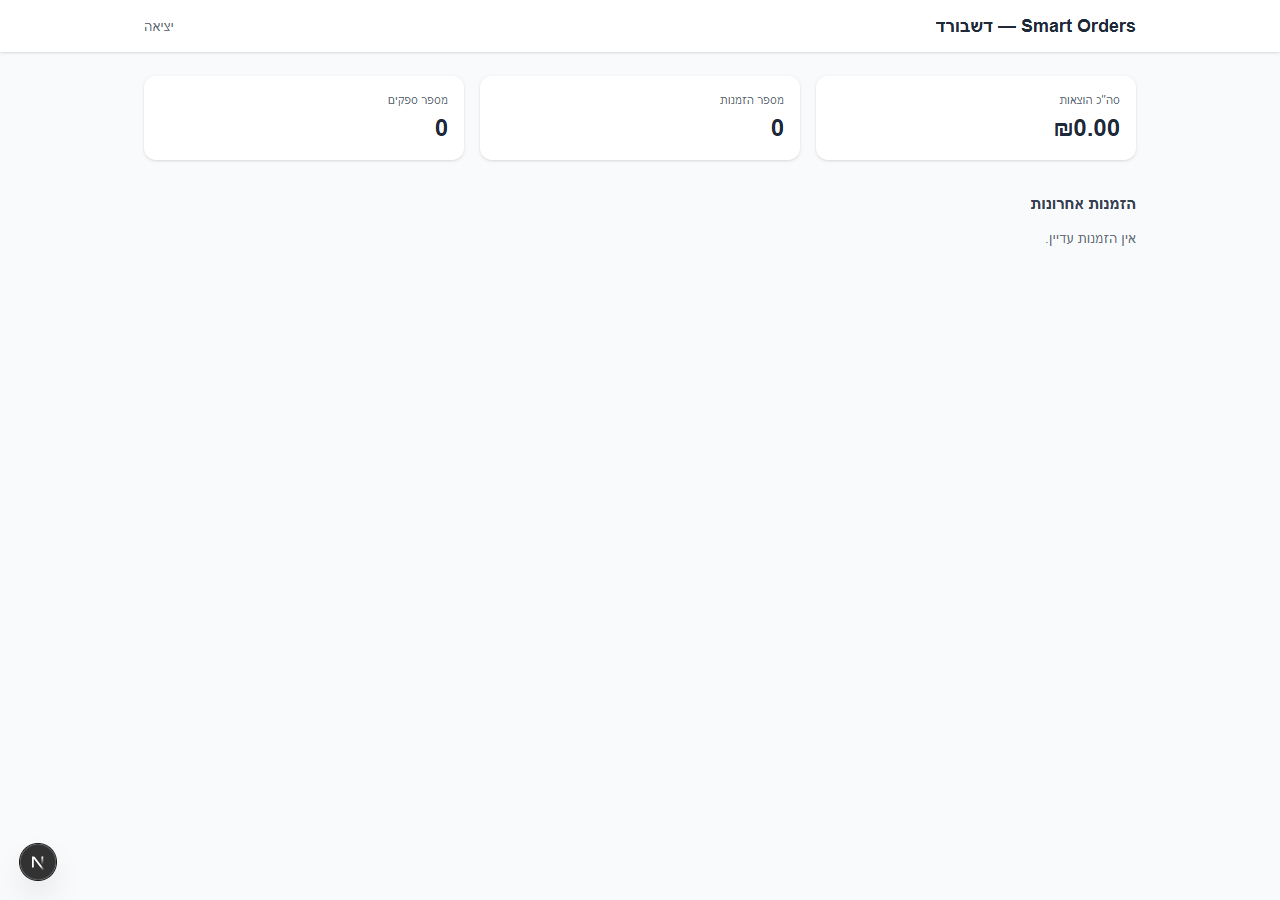
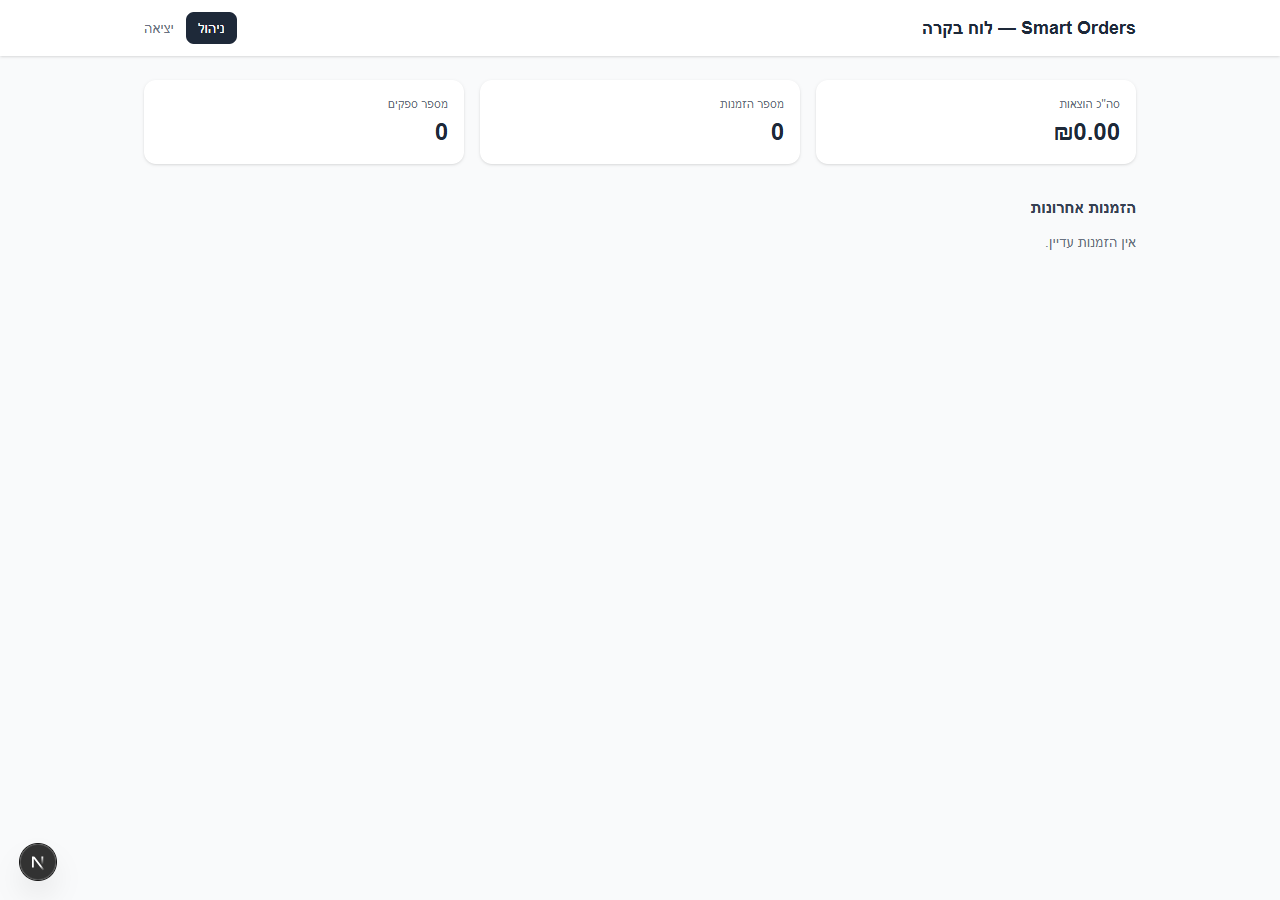
fix frontend

diff --git a/frontend/app/dashboard/orders/[id]/page.tsx b/frontend/app/dashboard/orders/[id]/page.tsx
@@ -1,0 +1,158 @@
+"use client";
+
+import { useEffect, useState } from "react";
+import { useRouter, useParams } from "next/navigation";
+import { fetchOrderDetail, OrderDetail } from "../../../lib/api";
+
+const STATUS_LABELS: Record<string, { label: string; color: string }> = {
+  pending:   { label: "ממתין",  color: "bg-yellow-100 text-yellow-800" },
+  confirmed: { label: "אושר",   color: "bg-blue-100 text-blue-800" },
+  delivered: { label: "נמסר",   color: "bg-green-100 text-green-800" },
+  cancelled: { label: "בוטל",   color: "bg-red-100 text-red-800" },
+  PENDING:   { label: "ממתין",  color: "bg-yellow-100 text-yellow-800" },
+  CONFIRMED: { label: "אושר",   color: "bg-blue-100 text-blue-800" },
+  DELIVERED: { label: "נמסר",   color: "bg-green-100 text-green-800" },
+  CANCELLED: { label: "בוטל",   color: "bg-red-100 text-red-800" },
+};
+
+function formatDate(iso: string) {
+  return new Date(iso).toLocaleDateString("he-IL", {
+    day: "numeric",
+    month: "long",
+    year: "numeric",
+    hour: "2-digit",
+    minute: "2-digit",
+  });
+}
+
+function formatCurrency(n: string | number) {
+  return `₪${Number(n).toLocaleString("he-IL", {
+    minimumFractionDigits: 2,
+    maximumFractionDigits: 2,
+  })}`;
+}
+
+function groupBySupplier(order: OrderDetail) {
+  const groups: Record<string, { name: string; items: OrderDetail["products"] }> = {};
+  for (const item of order.products) {
+    const key = String(item.supplier_id);
+    if (!groups[key]) groups[key] = { name: item.supplier_name, items: [] };
+    groups[key].items.push(item);
+  }
+  return Object.values(groups);
+}
+
+export default function OrderDetailPage() {
+  const router = useRouter();
+  const params = useParams();
+  const id = Number(params.id);
+
+  const [order, setOrder] = useState<OrderDetail | null>(null);
+  const [error, setError] = useState("");
+
+  useEffect(() => {
+    const token = localStorage.getItem("token");
+    if (!token) { router.push("/login"); return; }
+    fetchOrderDetail(id)
+      .then(setOrder)
+      .catch(() => setError("שגיאה בטעינת ההזמנה"));
+  }, [id, router]);
+
+  if (error) {
+    return (
+      <main className="min-h-screen flex items-center justify-center" dir="rtl">
+        <p className="text-red-600">{error}</p>
+      </main>
+    );
+  }
+
+  if (!order) {
+    return (
+      <main className="min-h-screen flex items-center justify-center" dir="rtl">
+        <p className="text-gray-500">טוען...</p>
+      </main>
+    );
+  }
+
+  const s = STATUS_LABELS[order.status] ?? { label: order.status, color: "bg-gray-100 text-gray-700" };
+  const groups = groupBySupplier(order);
+
+  return (
+    <main className="min-h-screen bg-gray-50" dir="rtl">
+      <header className="bg-white shadow-sm sticky top-0 z-10">
+        <div className="max-w-3xl mx-auto px-4 py-3 flex items-center gap-3">
+          <button
+            onClick={() => router.push("/dashboard")}
+            className="text-sm text-gray-500 hover:text-gray-800 transition"
+          >
+            ← חזרה
+          </button>
+          <h1 className="text-lg font-bold text-gray-800">הזמנה #{order.id}</h1>
+        </div>
+      </header>
+
+      <div className="max-w-3xl mx-auto px-4 py-6 space-y-6">
+
+        {/* Summary card */}
+        <div className="bg-white rounded-xl shadow-sm p-5 flex flex-wrap gap-6">
+          <div>
+            <p className="text-xs text-gray-500 mb-1">תאריך</p>
+            <p className="text-sm font-medium text-gray-800">{formatDate(order.created_at)}</p>
+          </div>
+          <div>
+            <p className="text-xs text-gray-500 mb-1">סטטוס</p>
+            <span className={`inline-block px-2 py-0.5 rounded-full text-xs font-medium ${s.color}`}>
+              {s.label}
+            </span>
+          </div>
+          <div>
+            <p className="text-xs text-gray-500 mb-1">ספקים</p>
+            <p className="text-sm font-medium text-gray-800">{groups.length}</p>
+          </div>
+          <div className="mr-auto">
+            <p className="text-xs text-gray-500 mb-1">סה"כ להזמנה</p>
+            <p className="text-2xl font-bold text-gray-900">{formatCurrency(order.total_price)}</p>
+          </div>
+        </div>
+
+        {/* Per-supplier breakdown */}
+        {groups.map((group) => {
+          const groupTotal = group.items.reduce(
+            (sum, item) => sum + Number(item.subtotal),
+            0
+          );
+          return (
+            <section key={group.name}>
+              <div className="flex items-center justify-between mb-2">
+                <h2 className="text-base font-semibold text-gray-700">{group.name}</h2>
+                <span className="text-sm font-semibold text-gray-900">{formatCurrency(groupTotal)}</span>
+              </div>
+              <div className="bg-white rounded-xl shadow-sm overflow-hidden">
+                <table className="w-full text-sm">
+                  <thead>
+                    <tr className="bg-gray-50 text-gray-500 text-xs">
+                      <th className="text-right px-4 py-2 font-medium">מוצר</th>
+                      <th className="text-right px-4 py-2 font-medium">כמות</th>
+                      <th className="text-right px-4 py-2 font-medium">מחיר יחידה</th>
+                      <th className="text-right px-4 py-2 font-medium">סה"כ</th>
+                    </tr>
+                  </thead>
+                  <tbody className="divide-y divide-gray-100">
+                    {group.items.map((item) => (
+                      <tr key={item.product_id}>
+                        <td className="px-4 py-3 font-medium text-gray-800">{item.product_name}</td>
+                        <td className="px-4 py-3 text-gray-600">{Number(item.quantity)}</td>
+                        <td className="px-4 py-3 text-gray-600">{formatCurrency(item.unit_price)}</td>
+                        <td className="px-4 py-3 font-semibold text-gray-800">{formatCurrency(item.subtotal)}</td>
+                      </tr>
+                    ))}
+                  </tbody>
+                </table>
+              </div>
+            </section>
+          );
+        })}
+      </div>
+    </main>
+  );
+}

diff --git a/frontend/app/dashboard/page.tsx b/frontend/app/dashboard/page.tsx
@@ -2,7 +2,7 @@
 
 import { useEffect, useState } from "react";
 import { useRouter } from "next/navigation";
-import { fetchOrders, fetchStats, OrderSummary, OrderStats } from "../lib/api";
+import { fetchOrders, fetchStats, fetchMe, OrderSummary, OrderStats, Me } from "../lib/api";
 
 const STATUS_LABELS: Record<string, { label: string; color: string }> = {
   PENDING: { label: "ממתין", color: "bg-yellow-100 text-yellow-800" },
@@ -36,6 +36,7 @@ export default function DashboardPage() {
   const router = useRouter();
   const [orders, setOrders] = useState<OrderSummary[] | null>(null);
   const [stats, setStats] = useState<OrderStats | null>(null);
+  const [me, setMe] = useState<Me | null>(null);
   const [error, setError] = useState("");
 
   useEffect(() => {
@@ -44,10 +45,11 @@ export default function DashboardPage() {
       router.push("/login");
       return;
     }
-    Promise.all([fetchOrders(), fetchStats()])
-      .then(([o, s]) => {
+    Promise.all([fetchOrders(), fetchStats(), fetchMe()])
+      .then(([o, s, m]) => {
         setOrders(o);
         setStats(s);
+        setMe(m);
       })
       .catch(() => setError("שגיאה בטעינת הנתונים"));
   }, [router]);
@@ -80,13 +82,23 @@ export default function DashboardPage() {
       {/* Header */}
       <header className="bg-white shadow-sm sticky top-0 z-10">
         <div className="max-w-5xl mx-auto px-4 py-3 flex justify-between items-center">
-          <h1 className="text-lg font-bold text-gray-800">Smart Orders — דשבורד</h1>
-          <button
-            onClick={logout}
-            className="text-sm text-gray-500 hover:text-gray-800 transition"
-          >
-            יציאה
-          </button>
+          <h1 className="text-lg font-bold text-gray-800">Smart Orders — לוח בקרה</h1>
+          <div className="flex gap-3 items-center">
+            {me?.is_staff && (
+              <button
+                onClick={() => router.push("/admin")}
+                className="text-sm bg-gray-800 text-white px-3 py-1.5 rounded-lg hover:bg-gray-900 transition"
+              >
+                ניהול
+              </button>
+            )}
+            <button
+              onClick={logout}
+              className="text-sm text-gray-500 hover:text-gray-800 transition"
+            >
+              יציאה
+            </button>
+          </div>
         </div>
       </header>
 
@@ -151,7 +163,11 @@ export default function DashboardPage() {
                 </thead>
                 <tbody className="divide-y divide-gray-100">
                   {orders.map((o) => (
-                    <tr key={o.id} className="hover:bg-gray-50 transition">
+                    <tr
+                      key={o.id}
+                      onClick={() => router.push(`/dashboard/orders/${o.id}`)}
+                      className="hover:bg-blue-50 cursor-pointer transition"
+                    >
                       <td className="px-4 py-3 text-gray-500">{o.id}</td>
                       <td className="px-4 py-3 text-gray-700">{formatDate(o.created_at)}</td>
                       <td className="px-4 py-3 text-gray-700">{o.product_count}</td>

diff --git a/frontend/app/login/page.tsx b/frontend/app/login/page.tsx
@@ -19,8 +19,15 @@ export default function LoginPage() {
       const { access } = await login(email, password);
       localStorage.setItem("token", access);
       router.push("/dashboard");
-    } catch {
-      setError("אימייל או סיסמה שגויים");
+    } catch (e: unknown) {
+      const msg = e instanceof Error ? e.message : String(e);
+      try {
+        const parsed = JSON.parse(msg);
+        const detail = parsed.detail ?? parsed.non_field_errors?.[0] ?? msg;
+        setError(String(detail));
+      } catch {
+        setError(msg || "שגיאת התחברות");
+      }
     } finally {
       setLoading(false);
     }

diff --git a/apps/users/serializers.py b/apps/users/serializers.py
@@ -63,7 +63,7 @@ class UserWithProfileSerializer(serializers.ModelSerializer):
 
     class Meta:
         model = User
-        fields = ("id", "email", "first_name", "last_name", "profile")
+        fields = ("id", "email", "first_name", "last_name", "is_staff", "profile")
 class UserSerializer(serializers.ModelSerializer):
     class Meta:
         model = User